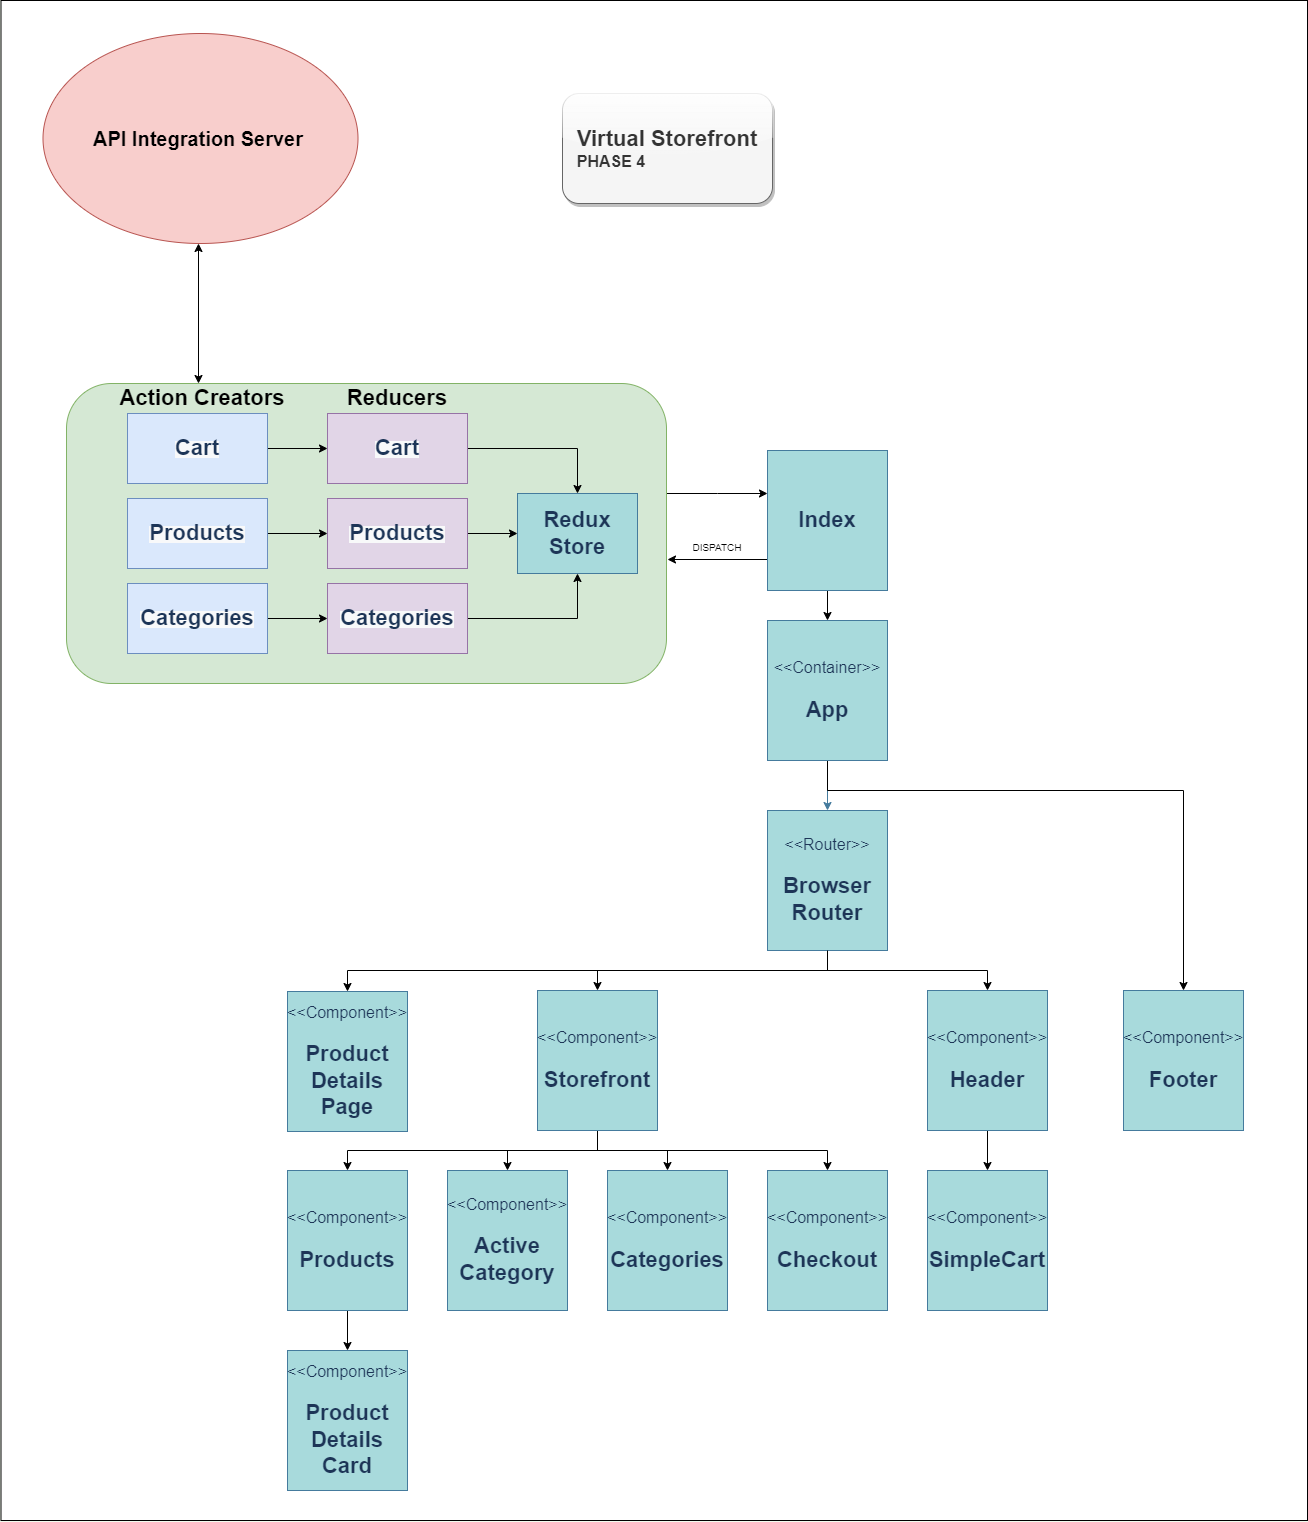
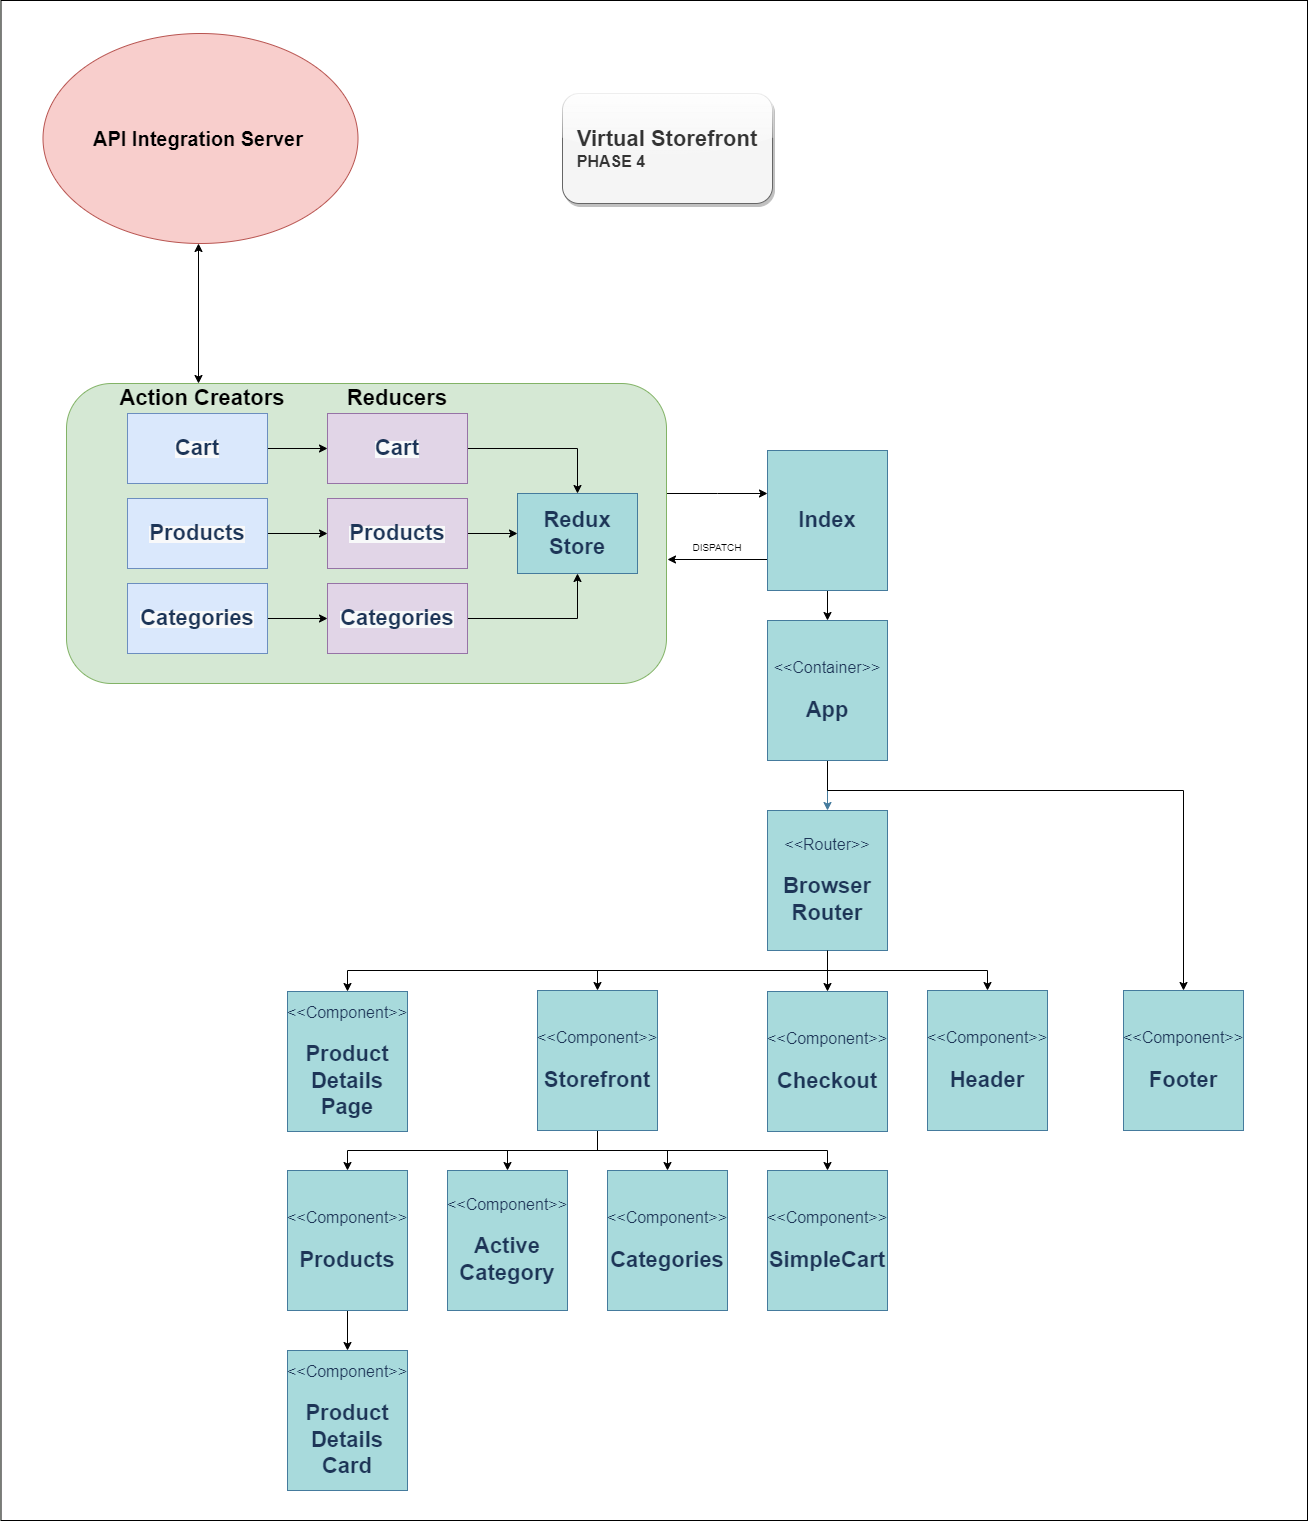
Add react routing to application. Get product data for product page based of route param id.

diff --git a/src/components/ProductPage.js b/src/components/ProductPage.js
@@ -1,0 +1,36 @@
+import React from 'react';
+import { useParams } from 'react-router-dom';
+import { connect } from 'react-redux';
+
+const ProductPage = (props) => {
+  const { id } = useParams();
+
+  /* inefficient work around for not being able to pass id into mapStateToProps
+     with react-router-dom v6 to get correct product as prop */
+  const getProduct = () => {
+    let match = props.products.find(entry => {
+      return entry.id.toString() === id;
+    });
+    console.log(match)
+    return match;
+  }
+
+  return (
+    <div>
+      <h1>{getProduct(id) && getProduct(id).id}</h1>
+      <h1>{getProduct(id) && getProduct(id).name}</h1>
+      <h1>{getProduct(id) && getProduct(id).price}</h1>
+      <h1>{getProduct(id) && getProduct(id).imageUrl}</h1>
+      <h1>{getProduct(id) && getProduct(id).inventoryCount}</h1>
+      <h1>{getProduct(id) && getProduct(id).description || 'Oh dear... No description for this product is available.'}</h1>
+    </div>
+  );
+}
+
+const mapStateToProps = state => {  
+  return {
+    products : state.products.products
+  };
+}
+
+export default connect(mapStateToProps)(ProductPage);

diff --git a/src/App.js b/src/App.js
@@ -3,9 +3,16 @@ import { connect } from 'react-redux';
 import StoreFront from './components/storefront';
 import Header from './components/header';
 import Footer from './components/footer';
+import ProductPage from './components/ProductPage';
 import Container from '@mui/material/Container';
 import { getCategories } from './store/actions/categories';
 import { getProducts } from './store/actions/products';
+
+import {
+  BrowserRouter,
+  Route,
+  Routes as Switch,
+} from 'react-router-dom';
 
 const App = (props) => {
   useEffect(() => {
@@ -20,8 +27,13 @@ const App = (props) => {
         maxWidth='xxl' 
         sx={{ display: 'flex', justifyContent: 'flexStart', flexDirection: 'column', minHeight: '90vh'}}
       >
-        <Header />
-        <StoreFront />
+        <BrowserRouter>
+          <Header />
+          <Switch>
+            <Route path="/" element={<StoreFront />}></Route>
+            <Route path="/products/:id" element={<ProductPage />}></Route>
+          </Switch>
+        </BrowserRouter>
       </Container>
       <Footer />
     </div>

diff --git a/src/components/storefront/productDetailsCard.js b/src/components/storefront/productDetailsCard.js
@@ -2,6 +2,7 @@ import React from 'react';
 import { connect } from 'react-redux';
 import { addToCart } from '../../store/actions/cart';
 import { Card, CardActions, CardContent, CardMedia, Button, Typography } from '@mui/material';
+import { Link } from 'react-router-dom';
 
 const ProductDetailsCard = ({ products, product, addToCart }) => {
   return (
@@ -36,7 +37,14 @@ const ProductDetailsCard = ({ products, product, addToCart }) => {
         >
           Add to Cart
         </Button>
-        <Button size="small" data-testid={`details-btn-${product.name}`}>View Details</Button>
+        <Button 
+          size="small" 
+          component={Link} 
+          to={`/products/${product.id}`}
+          data-testid={`details-btn-${product.name}`}
+        >
+          View Details
+        </Button>
       </CardActions>
     </Card>
   );
